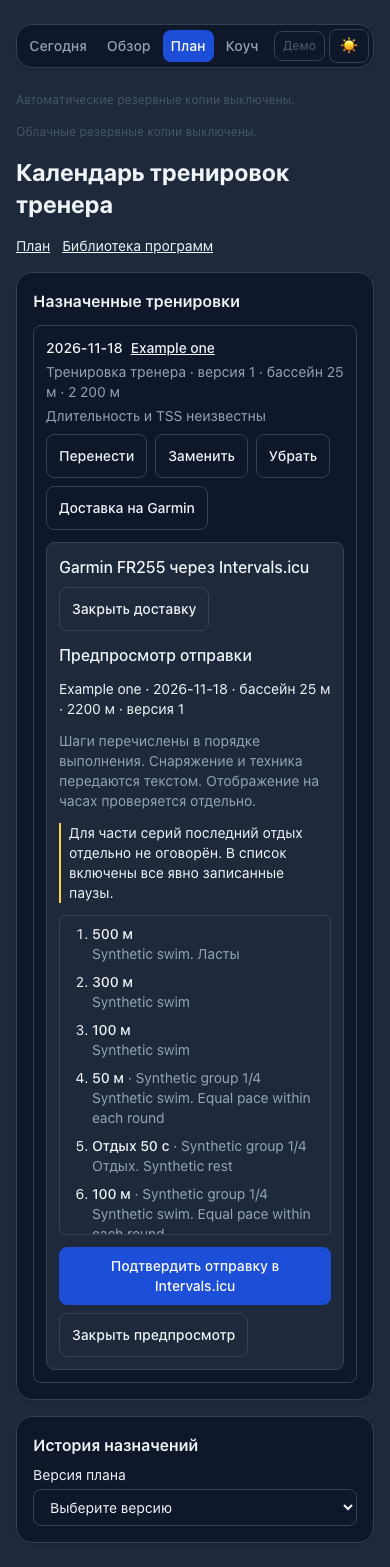
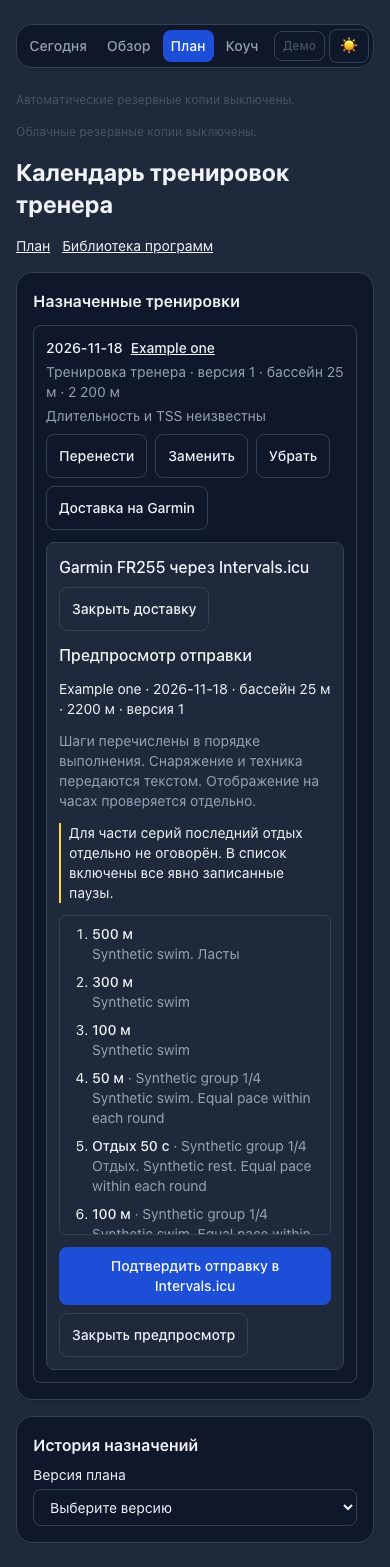
fix: address authored swim delivery review findings

Changed region(s): [[0.2462, 0.7352, 0.7077, 0.7964], [0.7077, 0.7658, 0.8, 0.7964]]

diff --git a/web/components/planning/SwimCalendarWorkspace.tsx b/web/components/planning/SwimCalendarWorkspace.tsx
@@ -183,14 +183,16 @@ function Calendar({ selectedCheckpoint, programId, revision }: {
       <ul className="mt-3 space-y-3">
         {rows.map(row => <li key={row.assignment_id} className="rounded-lg border border-surface-border p-3">
           <AuthoredSwimRow row={row} showDate />
-          {!selectedCheckpoint && row.date >= (cycle?.athlete_day ?? "") ? <div className="mt-2 flex flex-wrap gap-2">
-            <button type="button" className={button} disabled={!editable} aria-label={`Перенести: ${row.title}`}
-              onClick={() => { setEdit({ kind: "move", row }); setMoveDate(row.date); }}>Перенести</button>
-            <button type="button" className={button} disabled={!editable} aria-label={`Заменить: ${row.title}`}
-              onClick={() => setEdit({ kind: "substitute", row })}>Заменить</button>
-            <button type="button" className={button} disabled={!editable} aria-label={`Убрать: ${row.title}`}
-              onClick={() => void propose({ kind: "remove", assignment_id: row.assignment_id })}>Убрать</button>
-            <button type="button" className={button} disabled={!editable} aria-label={`Доставка на Garmin: ${row.title}`}
+          {!selectedCheckpoint ? <div className="mt-2 flex flex-wrap gap-2">
+            {row.date >= (cycle?.athlete_day ?? "") ? <>
+              <button type="button" className={button} disabled={!editable} aria-label={`Перенести: ${row.title}`}
+                onClick={() => { setEdit({ kind: "move", row }); setMoveDate(row.date); }}>Перенести</button>
+              <button type="button" className={button} disabled={!editable} aria-label={`Заменить: ${row.title}`}
+                onClick={() => setEdit({ kind: "substitute", row })}>Заменить</button>
+              <button type="button" className={button} disabled={!editable} aria-label={`Убрать: ${row.title}`}
+                onClick={() => void propose({ kind: "remove", assignment_id: row.assignment_id })}>Убрать</button>
+            </> : null}
+            <button type="button" className={button} disabled={busy || !!preview} aria-label={`Доставка на Garmin: ${row.title}`}
               aria-expanded={delivery === row.assignment_id} onClick={event => {
                 deliveryOrigin.current = event.currentTarget;
                 setEdit(null);
@@ -198,7 +200,8 @@ function Calendar({ selectedCheckpoint, programId, revision }: {
               }}>Доставка на Garmin</button>
           </div> : null}
           {!selectedCheckpoint && delivery === row.assignment_id && data?.checkpoint_id ? <SwimDeliveryPanel
-            key={row.assignment_id} row={row} checkpointId={data.checkpoint_id} editable={editable}
+            key={row.assignment_id} row={row} checkpointId={data.checkpoint_id}
+            editable={editable && !!cycle && row.date >= cycle.athlete_day}
             onClose={() => {
               setDelivery(null);
               requestAnimationFrame(() => deliveryOrigin.current?.focus());

diff --git a/web/components/planning/SwimDeliveryPanel.tsx b/web/components/planning/SwimDeliveryPanel.tsx
@@ -154,8 +154,11 @@ export function SwimDeliveryPanel({ row, checkpointId, editable, onClose }: {
     </> : error ? <>
       <p role="alert" className="text-sm text-ink">Не удалось прочитать квитанцию отправки.</p>
       <button type="button" className={button} onClick={() => void mutate()}>Повторить чтение</button>
-    </> : data ? <button type="button" className={primary} disabled={!editable || busy} onClick={() => void prepare()}>
-      {busy ? "Готовим шаги…" : "Проверить отправку"}
-    </button> : <p role="status" className="text-sm text-ink-soft">Читаем состояние доставки…</p>}
+    </> : data ? editable
+      ? <button type="button" className={primary} disabled={busy} onClick={() => void prepare()}>
+        {busy ? "Готовим шаги…" : "Проверить отправку"}
+      </button>
+      : <p className="text-sm text-ink-soft">Квитанции для этого назначения пока нет.</p>
+      : <p role="status" className="text-sm text-ink-soft">Читаем состояние доставки…</p>}
   </section>;
 }

diff --git a/services/swim_delivery.py b/services/swim_delivery.py
@@ -273,13 +273,18 @@ def _store_receipt(db: Database, preview_id: UUID, incoming: dict) -> dict:
 
 def _observe_event(client: IntervalsICUClient, stored: dict, event_id: int | None) -> dict:
     try:
-        if event_id is None:
-            matches = _owned_matches(client, stored)
-            if len(matches) != 1:
-                return _receipt(stored, reason="provider_event_ambiguous" if matches else "provider_event_unknown")
-            event_id = _provider_id(matches[0])
-        if event_id is None:
-            return _receipt(stored, reason="provider_event_unknown")
+        matches = _owned_matches(client, stored)
+        if len(matches) != 1:
+            return _receipt(
+                stored, event_id=event_id,
+                reason="provider_event_ambiguous" if matches else "provider_event_unknown",
+            )
+        listed_id = _provider_id(matches[0])
+        if listed_id is None:
+            return _receipt(stored, event_id=event_id, reason="provider_event_unknown")
+        if event_id is not None and listed_id != event_id:
+            return _receipt(stored, event_id=event_id, reason="provider_identity_mismatch")
+        event_id = listed_id
         event = client.get_workout_event(event_id)
     except (IntervalsICUError, UnicodeError):
         return _receipt(stored, event_id=event_id, reason="provider_readback_unknown")

diff --git a/models/swim_delivery.py b/models/swim_delivery.py
@@ -106,19 +106,21 @@ def project_swim_delivery(document: ProgramDocument, workout_id: str) -> SwimDel
     }
     unspecified_last_rest: list[str] = []
 
-    def expand_sequence(nodes: list[SwimNode] | list[SwimNodeV2]) -> list[SwimDeliveryStep]:
+    def expand_sequence(
+        nodes: list[SwimNode] | list[SwimNodeV2], *, limit: int = MAX_SWIM_DELIVERY_STEPS,
+    ) -> list[SwimDeliveryStep]:
         steps: list[SwimDeliveryStep] = []
         for node in nodes:
             steps.extend(expand(node))
-            if len(steps) > MAX_SWIM_DELIVERY_STEPS:
+            if len(steps) > limit:
                 raise SwimDeliveryUnsupported("step_limit", node.id)
         return steps
 
     def expand(node: SwimNode | SwimNodeV2) -> list[SwimDeliveryStep]:
         if isinstance(node, (SwimGroup, SwimGroupV2)):
             count = _repeat_count(node)
-            sequence = expand_sequence(node.steps)
             omit_last = node.last_rest == "omit"
+            sequence = expand_sequence(node.steps, limit=MAX_SWIM_DELIVERY_STEPS + int(omit_last))
             if len(sequence) * count - int(omit_last) > MAX_SWIM_DELIVERY_STEPS:
                 raise SwimDeliveryUnsupported("step_limit", node.id)
             if (

diff --git a/models/intervals_swim_delivery.py b/models/intervals_swim_delivery.py
@@ -111,14 +111,15 @@ def _range_cue(bounds: tuple[int, int]) -> str:
 def _encode_step(step: SwimDeliveryStep) -> IntervalsSwimStep:
     node = step.node
     if isinstance(node, (RestStep, RestStepV2)):
-        notes = ["Отдых", node.instructions]
+        notes = ["Отдых", node.instructions, *(round_.instructions for round_ in step.rounds)]
         if step.rest_breaths is not None:
             notes.append(f"Выдохи {_range_cue(step.rest_breaths)}")
         seconds = step.rest_seconds
         if node.mode == "approximate" and seconds is not None:
             notes.append(f"Ориентир {_range_cue(seconds)} секунд")
         duration = seconds[0] if node.mode == "fixed" and seconds is not None else None
-        return IntervalsSwimStep(_cue_text(". ".join(filter(None, notes))), None, duration, duration is None)
+        cue = _cue_text(". ".join(dict.fromkeys(filter(None, notes))))
+        return IntervalsSwimStep(cue, None, duration, duration is None)
 
     notes = [node.name, node.instructions, _STROKES.get(node.stroke, "")]
     notes.extend(_EQUIPMENT[item] for item in node.equipment)

diff --git a/tests/smoke/test_swim_delivery_calendar.py b/tests/smoke/test_swim_delivery_calendar.py
@@ -191,7 +191,8 @@ def test_two_concurrent_confirmations_claim_one_provider_write(assignment):
     class ConcurrentProvider(IntervalsSandbox):
         def list_workout_events(self, oldest, newest, *, strict):
             observed = super().list_workout_events(oldest, newest, strict=strict)
-            barrier.wait(timeout=5)
+            if self.creates == 0:
+                barrier.wait(timeout=5)
             return observed
 
     provider = ConcurrentProvider()

diff --git a/docs/swim_delivery_execplan.md b/docs/swim_delivery_execplan.md
@@ -45,7 +45,17 @@ a real FR255 must agree on the selected control workout and its rest behavior.
   journeys passed in 13.30s on 390 px dark and 1280 px light. The initial
   fixture mistakenly tried to save V2 through the V1 entry point. The actual
   V2 source-bound import path produces the saved task for acceptance.
-- [ ] Verify current GitHub CI and independent review. Human acceptance
+- [x] CI on d370da7 passed 4751 Python, 155 browser scenarios, populated
+  TS and Secret scan. Native review found four distinct blocking P2 cases,
+  one reported twice. RED 31b5f7d independently reproduced the three
+  backend problems and receipt entry disappearing after the day changed.
+- [x] Check provider uniqueness on every readback, retain group cues on
+  rests, apply the export limit after the last-rest policy, and make the
+  current calendar receipt visible after its date. 231 local checks and
+  two browser scenarios on the final tree pass. A combined earlier run
+  passed four scenarios and emitted a scratch cleanup warning afterward.
+  The two final focused runs ended without that warning.
+- [ ] Verify current GitHub CI and scoped second review. Human acceptance
   precedes merge.
 - [ ] Obtain scope-bound approval and verify receipt and behavior on FR255.
   Check the three complete controls and wider supported profiles separately.
